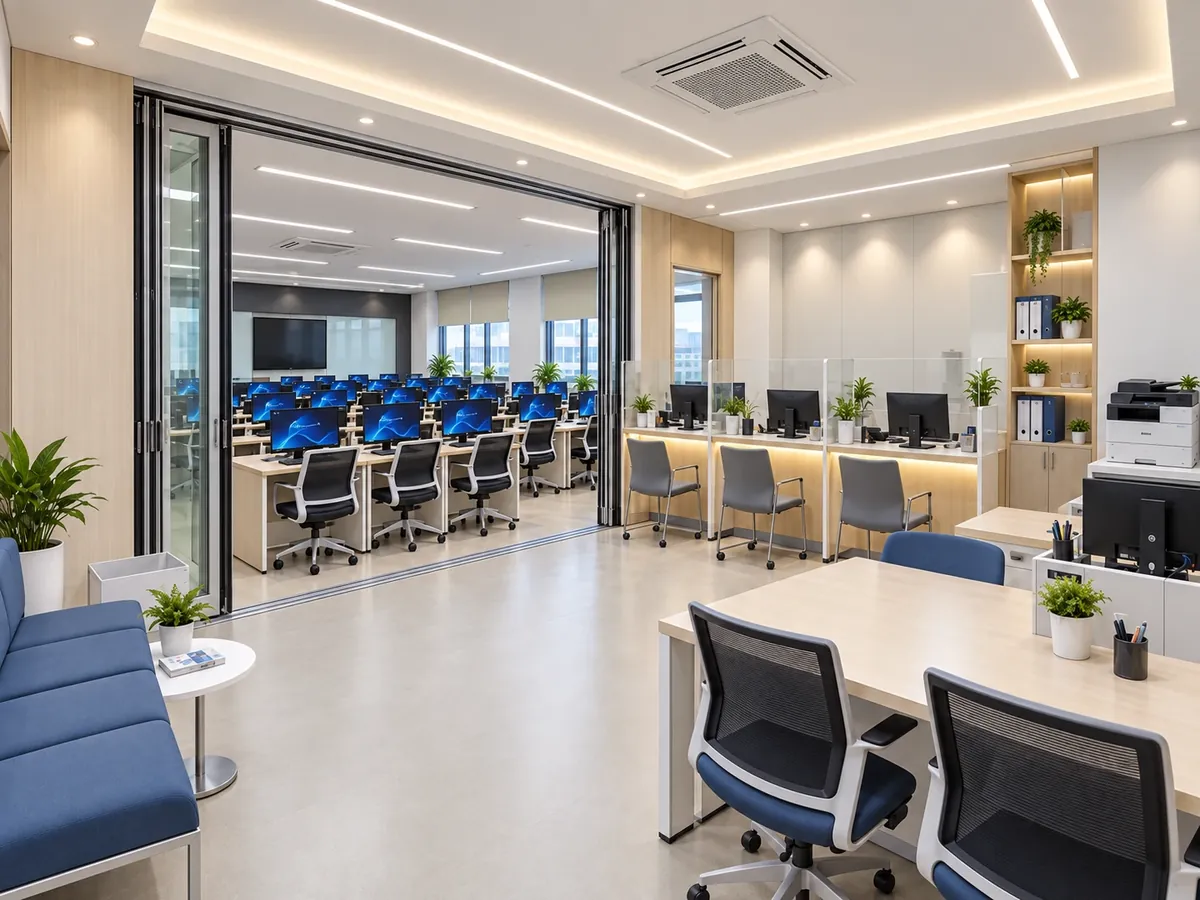
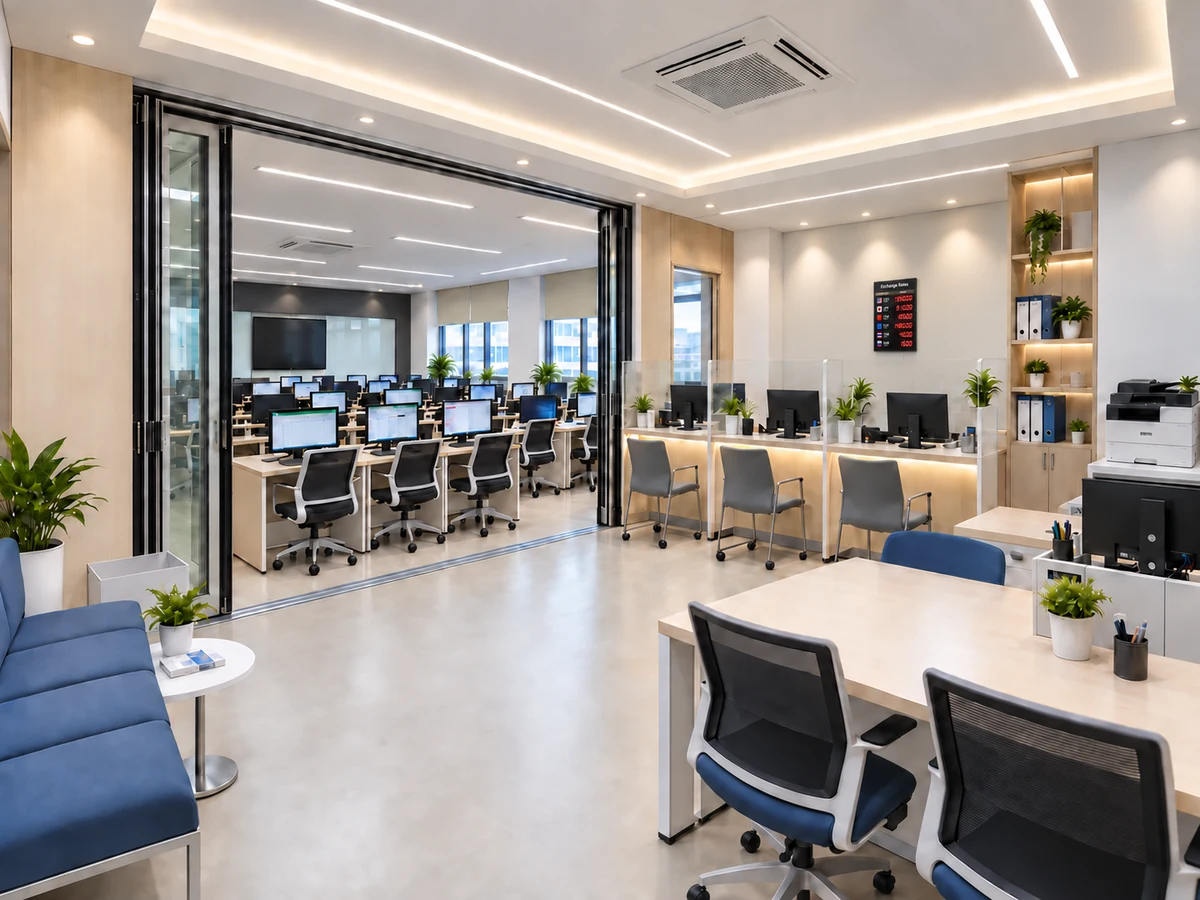
AI비즈니스실과 카페실습실 승인 시안으로 이미지 교체

diff --git a/assets/js/site-data.js b/assets/js/site-data.js
@@ -1005,10 +1005,10 @@ window.SITE_DATA = {
       icon: "ai",
       name: "AI비즈니스실",
       image: {
-        src: "assets/img/facilities/ai-business.webp",
+        src: "assets/img/facilities/ai-business.webp?v=2",
         width: 1200,
         height: 900,
-        alt: "AI비즈니스실 조성 예시 이미지 - 컴퓨터 실습석과 사무 공간"
+        alt: "AI비즈니스실 조성 예시 이미지 - 다양한 업무 화면의 실습석과 환율 전광판이 있는 창구"
       },
       imageLabel: "조성 예시 이미지",
       target: "AI핀테크과·전체 학과",
@@ -1033,10 +1033,10 @@ window.SITE_DATA = {
       icon: "cafe",
       name: "카페실습실",
       image: {
-        src: "assets/img/facilities/cafe-lab.webp",
+        src: "assets/img/facilities/cafe-lab.webp?v=2",
         width: 1200,
         height: 900,
-        alt: "카페실습실 조성 예시 이미지 - 에스프레소 머신이 있는 바와 매장 좌석"
+        alt: "카페실습실 조성 예시 이미지 - 에스프레소 머신과 드립 장비 등 다양한 기자재를 갖춘 바와 매장 좌석"
       },
       imageLabel: "조성 예시 이미지",
       target: "카페비즈과",
